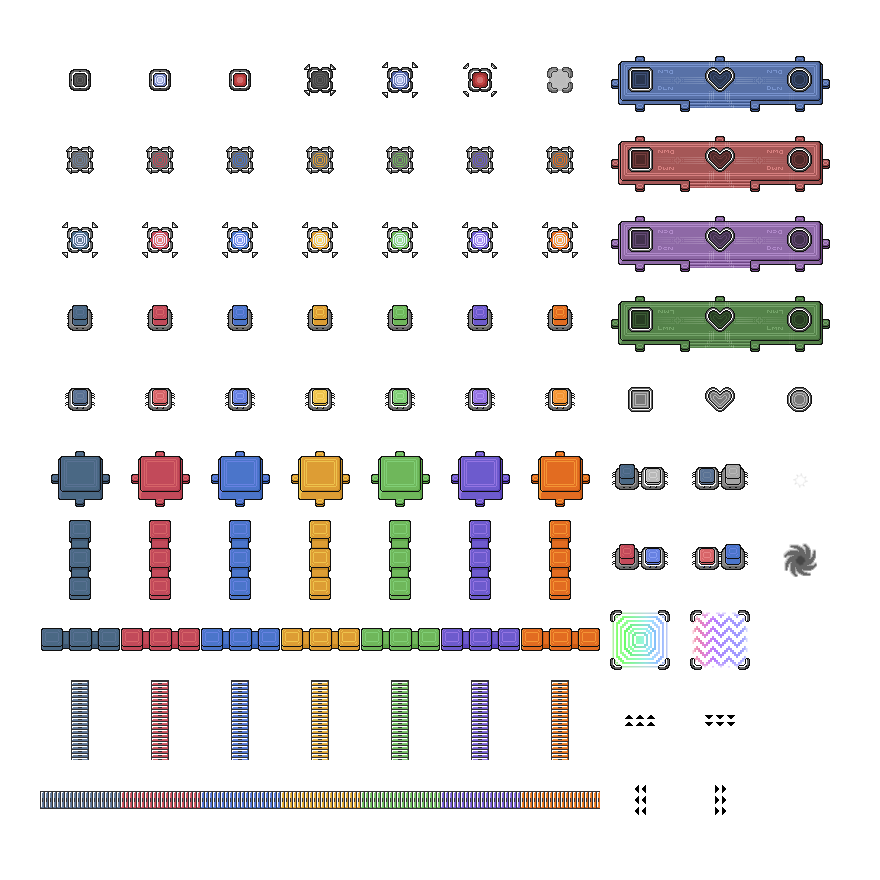
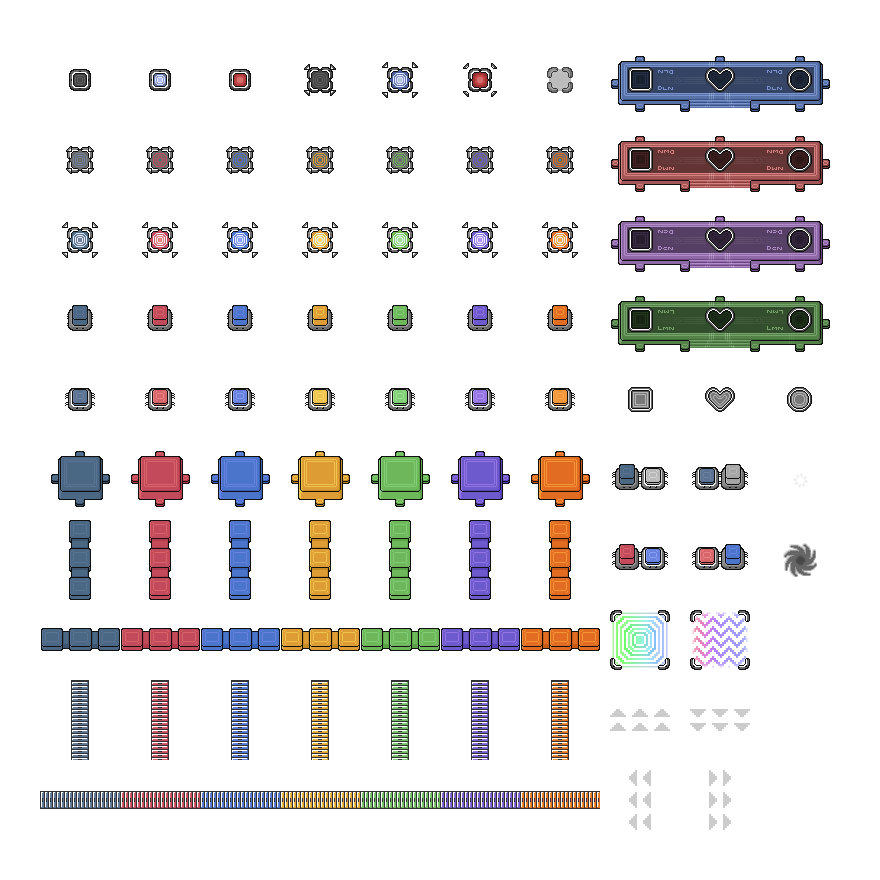
Updated sprites and styles for directional-portals in free-roam

diff --git a/styles/world.css b/styles/world.css
@@ -405,6 +405,10 @@ html, body {
 
 #world #map .sprite.tile.portal { background-position: -360px -40px; }
 #world #map .sprite.tile.portal.locked { background-position: -440px -40px; }
+#world #map .sprite.tile.portal-right { background-position: -680px -760px; }
+#world #map .sprite.tile.portal-left { background-position: -600px -760px; }
+#world #map .sprite.tile.portal-up { background-position: -600px -680px; }
+#world #map .sprite.tile.portal-down { background-position: -680px -680px; }
 #world #map .sprite.tile[data-portal="spawn"] { background-position: -120px -40px; }
 #world #map .sprite.tile[data-portal="exit"] { background-position: -440px -40px; }
 #world #map .sprite.tile.portal.hidden { display: none; }

diff --git a/classes/rpg_world.php b/classes/rpg_world.php
@@ -2038,9 +2038,11 @@ class rpg_world {
                 elseif (in_array('down-only', $portal_data)){ $direction = 'down'; }
                 if ($hidden && $portal_name === 'spawn'){ continue; }
                 //if ($this_is_cursor && !$locked && $portal_name !== 'spawn'){ $locked = true; }
+                $sprite = 'portal';
+                if (!empty($direction)){ $sprite .= '-'.$direction; }
                 $label = preg_match('/^goto__/i', $portal_name) ? strtoupper(preg_replace('/^goto__/i', '', $portal_name)) : ('World '.ucfirst($portal_name));
                 $attrs = 'data-portal="'.$portal_name.'" data-label="'.$label.'" data-pos="'.$pos.'" data-col="'.$col.'" data-row="'.$row.'"';
-                $classes = 'sprite tile portal'.($portal_name !== 'spawn' && !$hidden && !$locked  ? ' pulse' : '').($hidden ? ' hidden' : '').($locked ? ' locked' : '');
+                $classes = 'sprite tile '.$sprite.' '.($portal_name !== 'spawn' && !$hidden && !$locked  ? ' pulse' : '').($hidden ? ' hidden' : '').($locked ? ' locked' : '');
                 $style = 'top: '.$top.'px; left: '.$left.'px; z-index: '.$z_index.';';
                 $portals_markup[] = '<span data-sprite="portal" class="'.$classes.'" '.$attrs.' style="'.$style.'"></span>';
                 $portal_symbols[$pos] = $portal_name;
